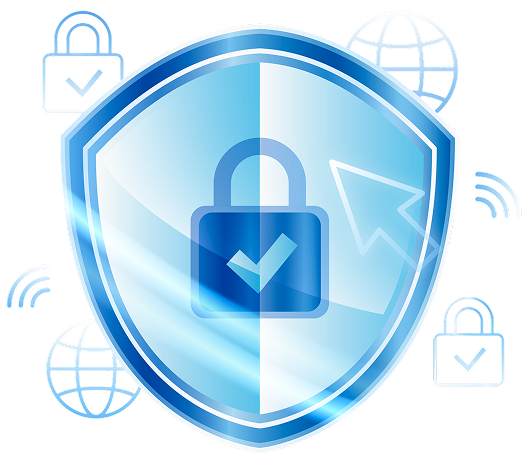
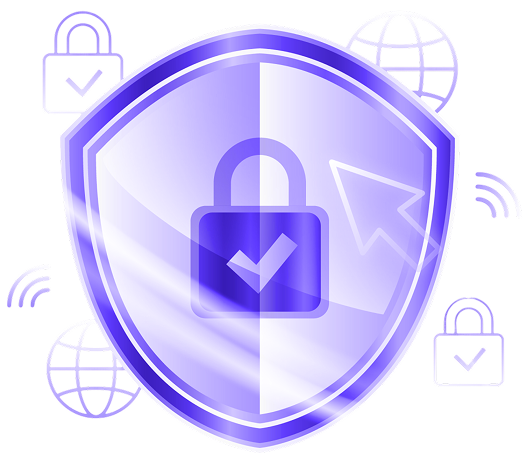
fixed build error and change secure image

diff --git a/app/page.tsx b/app/page.tsx
@@ -9,7 +9,7 @@ import GoogleIcon from "/public/icons/google_play_fill.svg";
 import Instant_Message from "/public/instant_messaging.png";
 import Payments from "/public/payments.png";
 import Stories from "/public/stories.png";
-import Utilities from "/public/Utilities.png";
+import Utilities from "/public/utilities.png";
 import Iphone from "/public/iphone.png";
 import Countries from "/public/countries.png";
 import Secure from "/public/secure.png";

diff --git a/components/Footer.tsx b/components/Footer.tsx
@@ -6,7 +6,7 @@ import Facebook from "/public/icons/facebook.svg";
 import Instagram from "/public/icons/instagram.svg";
 import Linkedin from "/public/icons/linkedin.svg";
 import Logo from "/public/icons/logo_black.svg";
-import X from "/public/icons/X.svg";
+import X from "/public/icons/x.svg";
 
 export default function Footer() {
   return (
